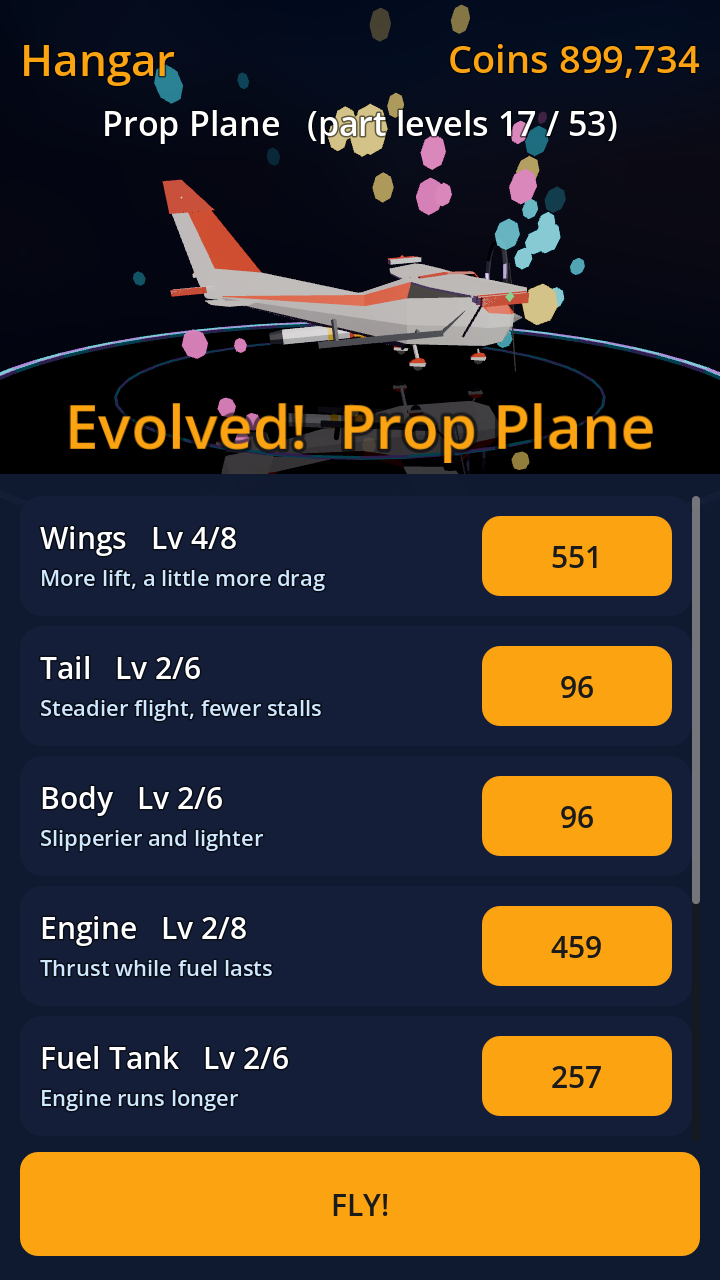
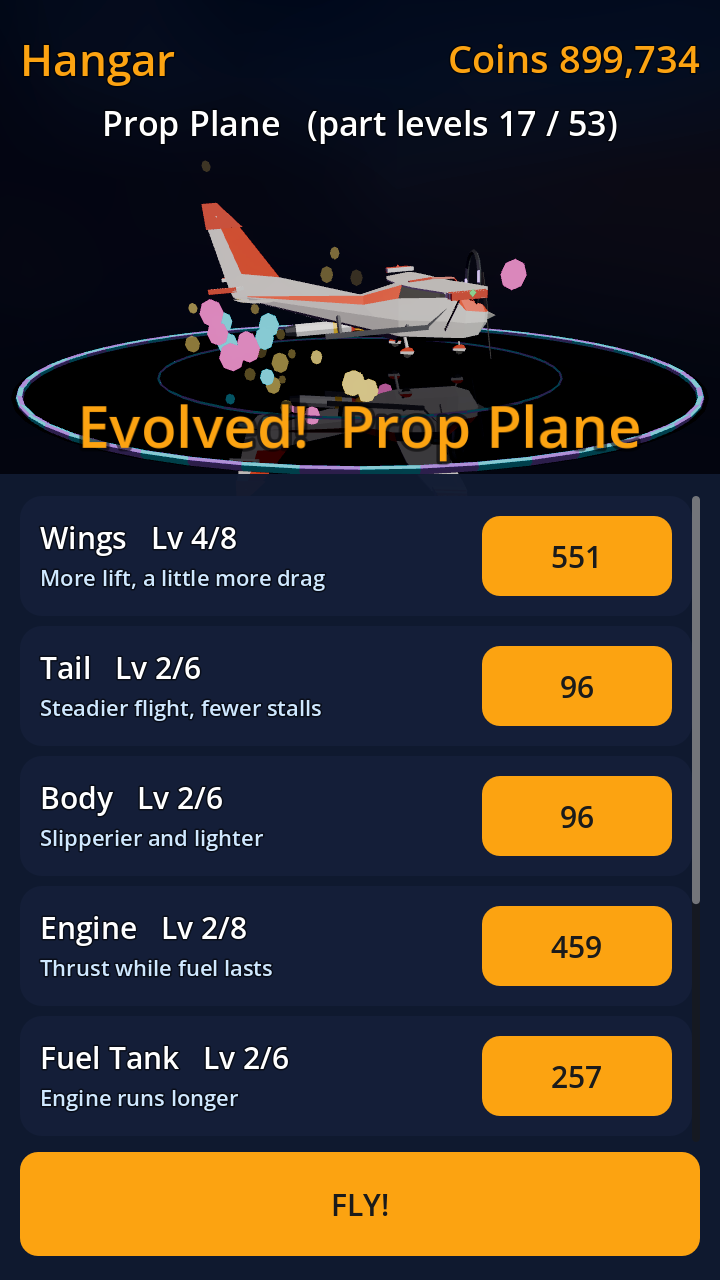
wip: v3 stage B perf fixes (single-surface coins, entity range), screenshots

diff --git a/STATUS.md b/STATUS.md
@@ -11,6 +11,6 @@
 - [x] 7 Credits screen
 - [x] 8 hangar studio
 - [x] 9 asset + performance tests + 2 negatives (asset missing from ASSETS.md, draw-call budget)
-- [~] 10 effects, screenshots reviewed critically
+- [x] 10 effects (wing-tip trails, speed lines, shake, splash/dust, coin sparkle), screenshots reviewed
 - [ ] 11 one clean tools/run_tests.sh
 - [ ] 12 APK size + sha256
